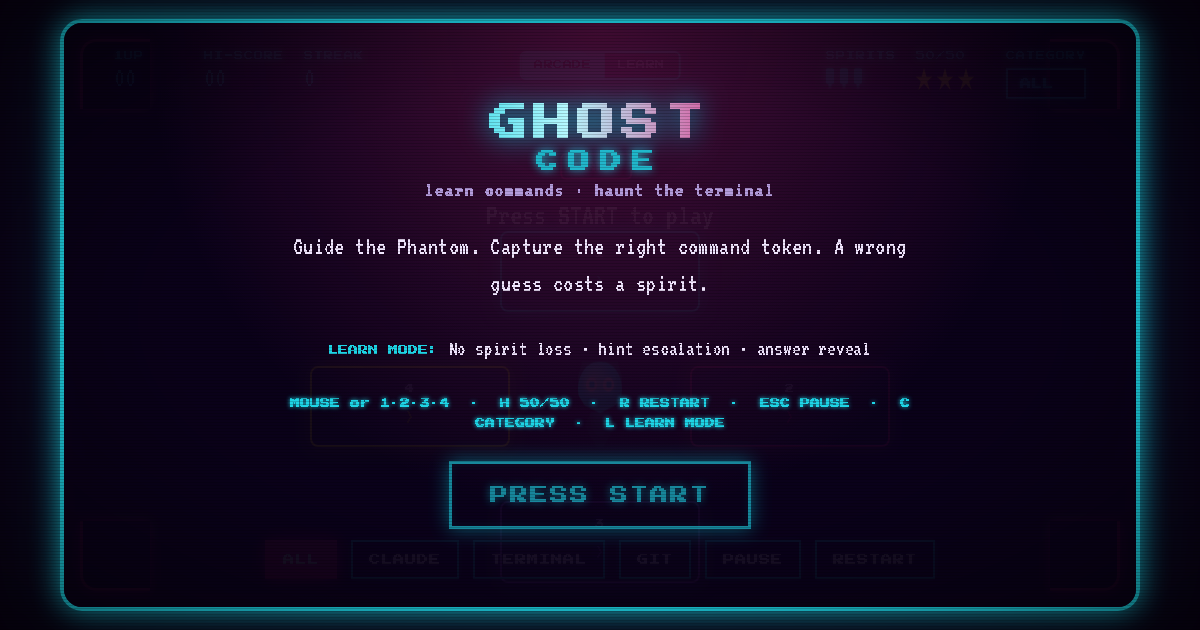
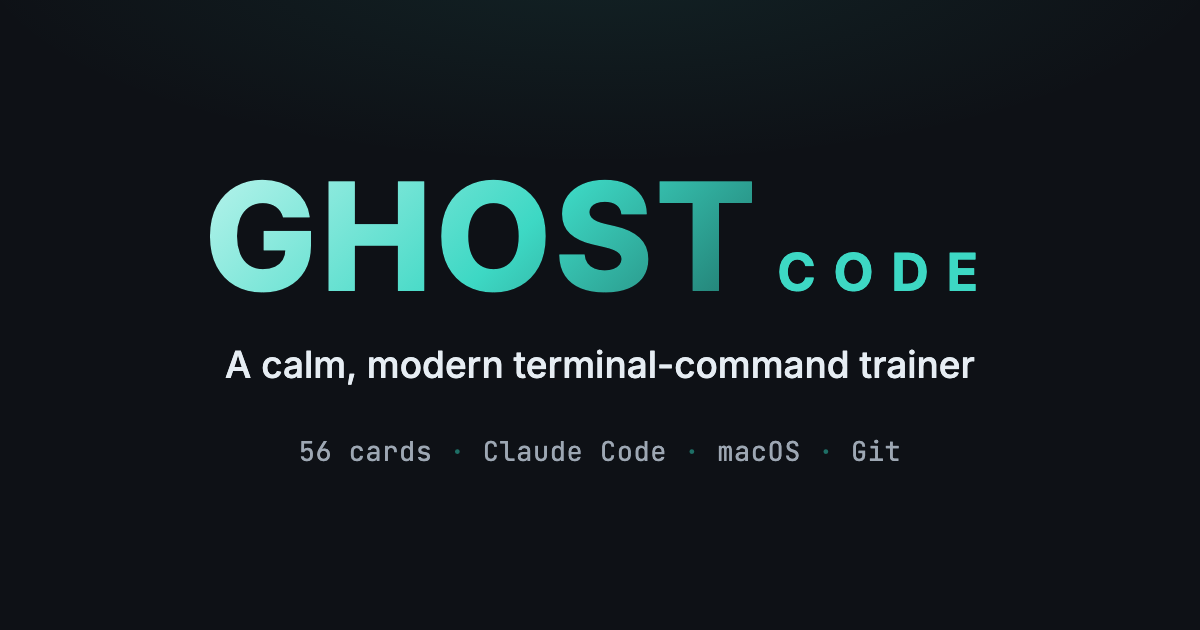
M5b [P2/uplift]: regenerate OG card (editorial candidate) + truthful alt (L1-F1/L8-F2/L1-F2)
Replaced the retired synthwave OG card (purple/pink CRT, neon pixel font, "Press
START" collision, wrapped controls, 316KB — whose own caption "a calm, modern
terminal-command trainer" contradicted the loud picture) with Sky's chosen candidate:
the editorial card — GHOST CODE wordmark (Inter, teal gradient) on calm graphite
#0E1116, "A calm, modern terminal-command trainer", and "56 cards · Claude Code ·
macOS · Git" in JetBrains Mono. Typography-only (the mascot-inclusion question stays
Sky's; no Phantom added), one teal accent, 90KB (was 316KB). Rewrote og:image:alt +
twitter:image:alt to describe the ACTUAL card and dropped the false "Phantom mascot"
claim (L1-F2) — words and picture now agree.

Verified (Chromium, tool 07 social-card harness): the card + og:title + og:description
all read "calm terminal-command trainer / 56 cards / Claude Code, macOS, Git"; no
contradiction; no mascot in the frame or the alt. All copy is existing/approved (title
+ meta description) — no invented claims. Only remaining "mascot" mentions are the
in-game Phantom element + the favicon geometry comment.
NEEDS-SKY-DEVICE (post-deploy): social scrapers cache the old card — re-scrape on the
close-out deploy checklist (Ledger L1).

diff --git a/index.html b/index.html
@@ -23,14 +23,14 @@
 <meta property="og:image" content="https://ghostcode.skypistudio.com/og-image.png" />
 <meta property="og:image:width" content="1200" />
 <meta property="og:image:height" content="630" />
-<meta property="og:image:alt" content="Ghost Code start screen — the GHOST CODE title with the Phantom mascot on a calm, dark terminal-style background" />
+<meta property="og:image:alt" content="Ghost Code social card — the GHOST CODE wordmark in phosphor-teal on a calm graphite background, above the line 'A calm, modern terminal-command trainer' and a row reading 56 cards, Claude Code, macOS, Git" />
 
 <!-- Twitter Card -->
 <meta name="twitter:card" content="summary_large_image" />
 <meta name="twitter:title" content="Ghost Code — guide the Phantom, learn the terminal" />
 <meta name="twitter:description" content="A calm, modern terminal-command trainer. 56 cards across Claude Code, macOS, and Git. Zero dependencies." />
 <meta name="twitter:image" content="https://ghostcode.skypistudio.com/og-image.png" />
-<meta name="twitter:image:alt" content="Ghost Code start screen — the GHOST CODE title with the Phantom mascot on a calm, dark terminal-style background" />
+<meta name="twitter:image:alt" content="Ghost Code social card — the GHOST CODE wordmark in phosphor-teal on a calm graphite background, above the line 'A calm, modern terminal-command trainer' and a row reading 56 cards, Claude Code, macOS, Git" />
 <meta name="author" content="Sky Halisky" />
 
 <link rel="preconnect" href="https://fonts.googleapis.com">
